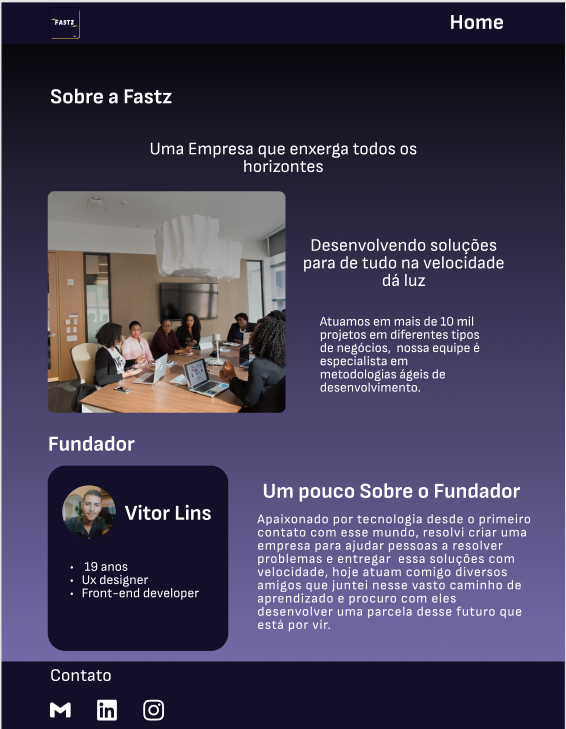
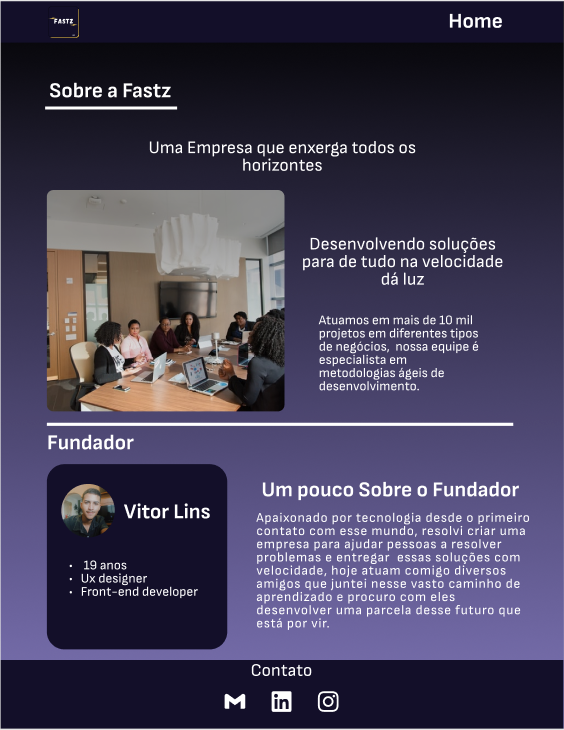
estruturando o HTML da página sobre nós

diff --git a/Projetos/Fastz/about-us/index.html b/Projetos/Fastz/about-us/index.html
@@ -1,0 +1,70 @@
+<!DOCTYPE html>
+<html lang="pt-br">
+<head>
+    <meta charset="UTF-8">
+    <meta http-equiv="X-UA-Compatible" content="IE=edge">
+    <meta name="viewport" content="width=device-width, initial-scale=1.0">
+    <title>Sobre</title>
+    <link rel="stylesheet" href="../reset/reset.css">
+    <link rel="stylesheet" href="css/style.css">
+</head>
+<body>
+    <!--conteúdo-->
+    <div class="container">
+        <!--Cabeçalho-->
+            <div class="header.bx">
+                <header>
+                    <img src="../img/Logo.png" alt="Logo Fastz" style="width:77px" height="73px">
+                    <nav class="navegacao">
+                        <a href="../index.html"> Home </a>
+                    </nav>
+                </header>
+        <!--Cabeçalho-->
+            </div>
+
+        <!--seção 1 -->
+        <div class="container">
+            <h1>Sobre a Fastz</h1>
+            <main>
+                <h2>Uma Empresa que enxerga todos os horizontes</h2>
+                <article>
+                    <img src="" alt=""> <h2>Desenvolvendo soluções para de tudo na velocidade dá luz</h2>
+                    <p>
+                        Atuamos em mais de 10 mil projetos em diferentes tipos de negócios,  nossa equipe é especialista em metodologias ágeis de desenvolvimento. 
+                    </p>
+                </article>
+            </main>
+        </div>
+        <!--seção 1 -->
+        <!--seção 2 -->
+            <div class="container">
+                <h1>Fundador</h1>
+                <div class="box">
+                    <img src="../img/Perfil.jpg" style="height:120px" width="120px" border-radius="100%" alt="Garoto">
+                    <ul>
+                        <li>19 anos</li>
+                        <li>Ux designer</li>
+                        <li>Front-end Developer</li>
+                    </ul>
+                </div>
+
+                <article>
+                    <h2>Um pouco Sobre o Fundador</h2>
+                    <p>Apaixonado por tecnologia desde o primeiro contato com esse mundo, resolvi criar uma empresa para ajudar pessoas a resolver problemas e entregar  essas soluções com velocidade, hoje atuam comigo diversos amigos que juntei nesse vasto caminho de aprendizado e procuro com eles desenvolver uma parcela desse futuro que está por vir.</p>
+                </article>
+            </div>
+        <!--seção 2 -->
+        <!--rodape-->
+        <footer>
+            <h1>Contato</h1>
+            <ul>
+                <li><a href="#"></a></li>
+                <li><a href="#"></a></li>
+                <li><a href="#"></a></li>
+            </ul>
+        </footer>
+        <!--rodape-->
+     </div>   
+    <!--conteúdo-->
+</body>
+</html>

diff --git a/Projetos/Fastz/about-us/css/style.css b/Projetos/Fastz/about-us/css/style.css
@@ -1,0 +1,54 @@
+
+@font-face{
+        font-family:'sofi';
+        src: url('/Projetos/Fastz/Fonts/sofiapro-light.otf') format('opentype');
+        font-style: normal;
+    }
+
+body{
+    font-family:'sofi';
+    width: 100%;
+    color: white;
+    background: linear-gradient(180deg, #000000 0%, rgba(10, 3, 56, 0.77) 100%);
+    
+}
+.container{
+    margin: 0 auto;
+    
+   
+}
+/* ESTILOS DO CABEÇALHO*/
+
+header{
+    display: flex;
+    flex-wrap: wrap;
+    justify-content: space-between;
+    align-items: center;
+    background-color: #130F29;
+    padding-bottom: 10px;
+    
+}
+
+img{
+    margin-top: 10px;
+    margin-left:108px;
+}
+
+li{
+    list-style: none;
+}
+a{
+    text-decoration: none;
+    color: white;
+    font-size: 3rem;
+    margin-right: 130px;
+}
+
+.navegacao{
+    float: right;
+}
+.navegacao a{
+    font-weight: bold;
+}
+
+/* ESTILOS DO CABEÇALHO*/

diff --git a/Projetos/Fastz/index.html b/Projetos/Fastz/index.html
@@ -6,7 +6,7 @@
     <meta name="viewport" content="width=device-width, initial-scale=1.0">
     <title>Fastz</title>
     <link rel="stylesheet" href="reset/reset.css">
-    <link rel="stylesheet" href="css/style.css">
+    <link rel="stylesheet" href="Projetos/Fastz/about-us/css/style.css">
 </head>
 <body>
     
@@ -15,7 +15,11 @@
         <div class="header.bx">
             <header>
                 <img src="img/Logo.png" alt="Logo Fastz" style="width:77px" height="73px">
+                <nav class="navegacao">
+                    <a href="about-us/index.html"> Sobre nós</a>
+                </nav>
             </header>
+            
         </div>
     <!--Cabeçalho-->
 

diff --git a/Projetos/Fastz/css/style.css b/Projetos/Fastz/css/style.css
@@ -52,6 +52,15 @@
         margin-right: 130px;
     }
 
+    .navegacao{
+        float: right;
+    }
+    
+    .navegacao a{
+        font-weight: bold;
+    }
+    
+
 /* ESTILOS DO CABEÇALHO*/
 
 /* ESTILOS DA SESSÃO*/
@@ -233,7 +242,8 @@ footer{
         }
 
         .cog-form__container {
-            width: 280px !important;
+            width: 250px !important;
+            height: 330px !important;
         }
     }
 
